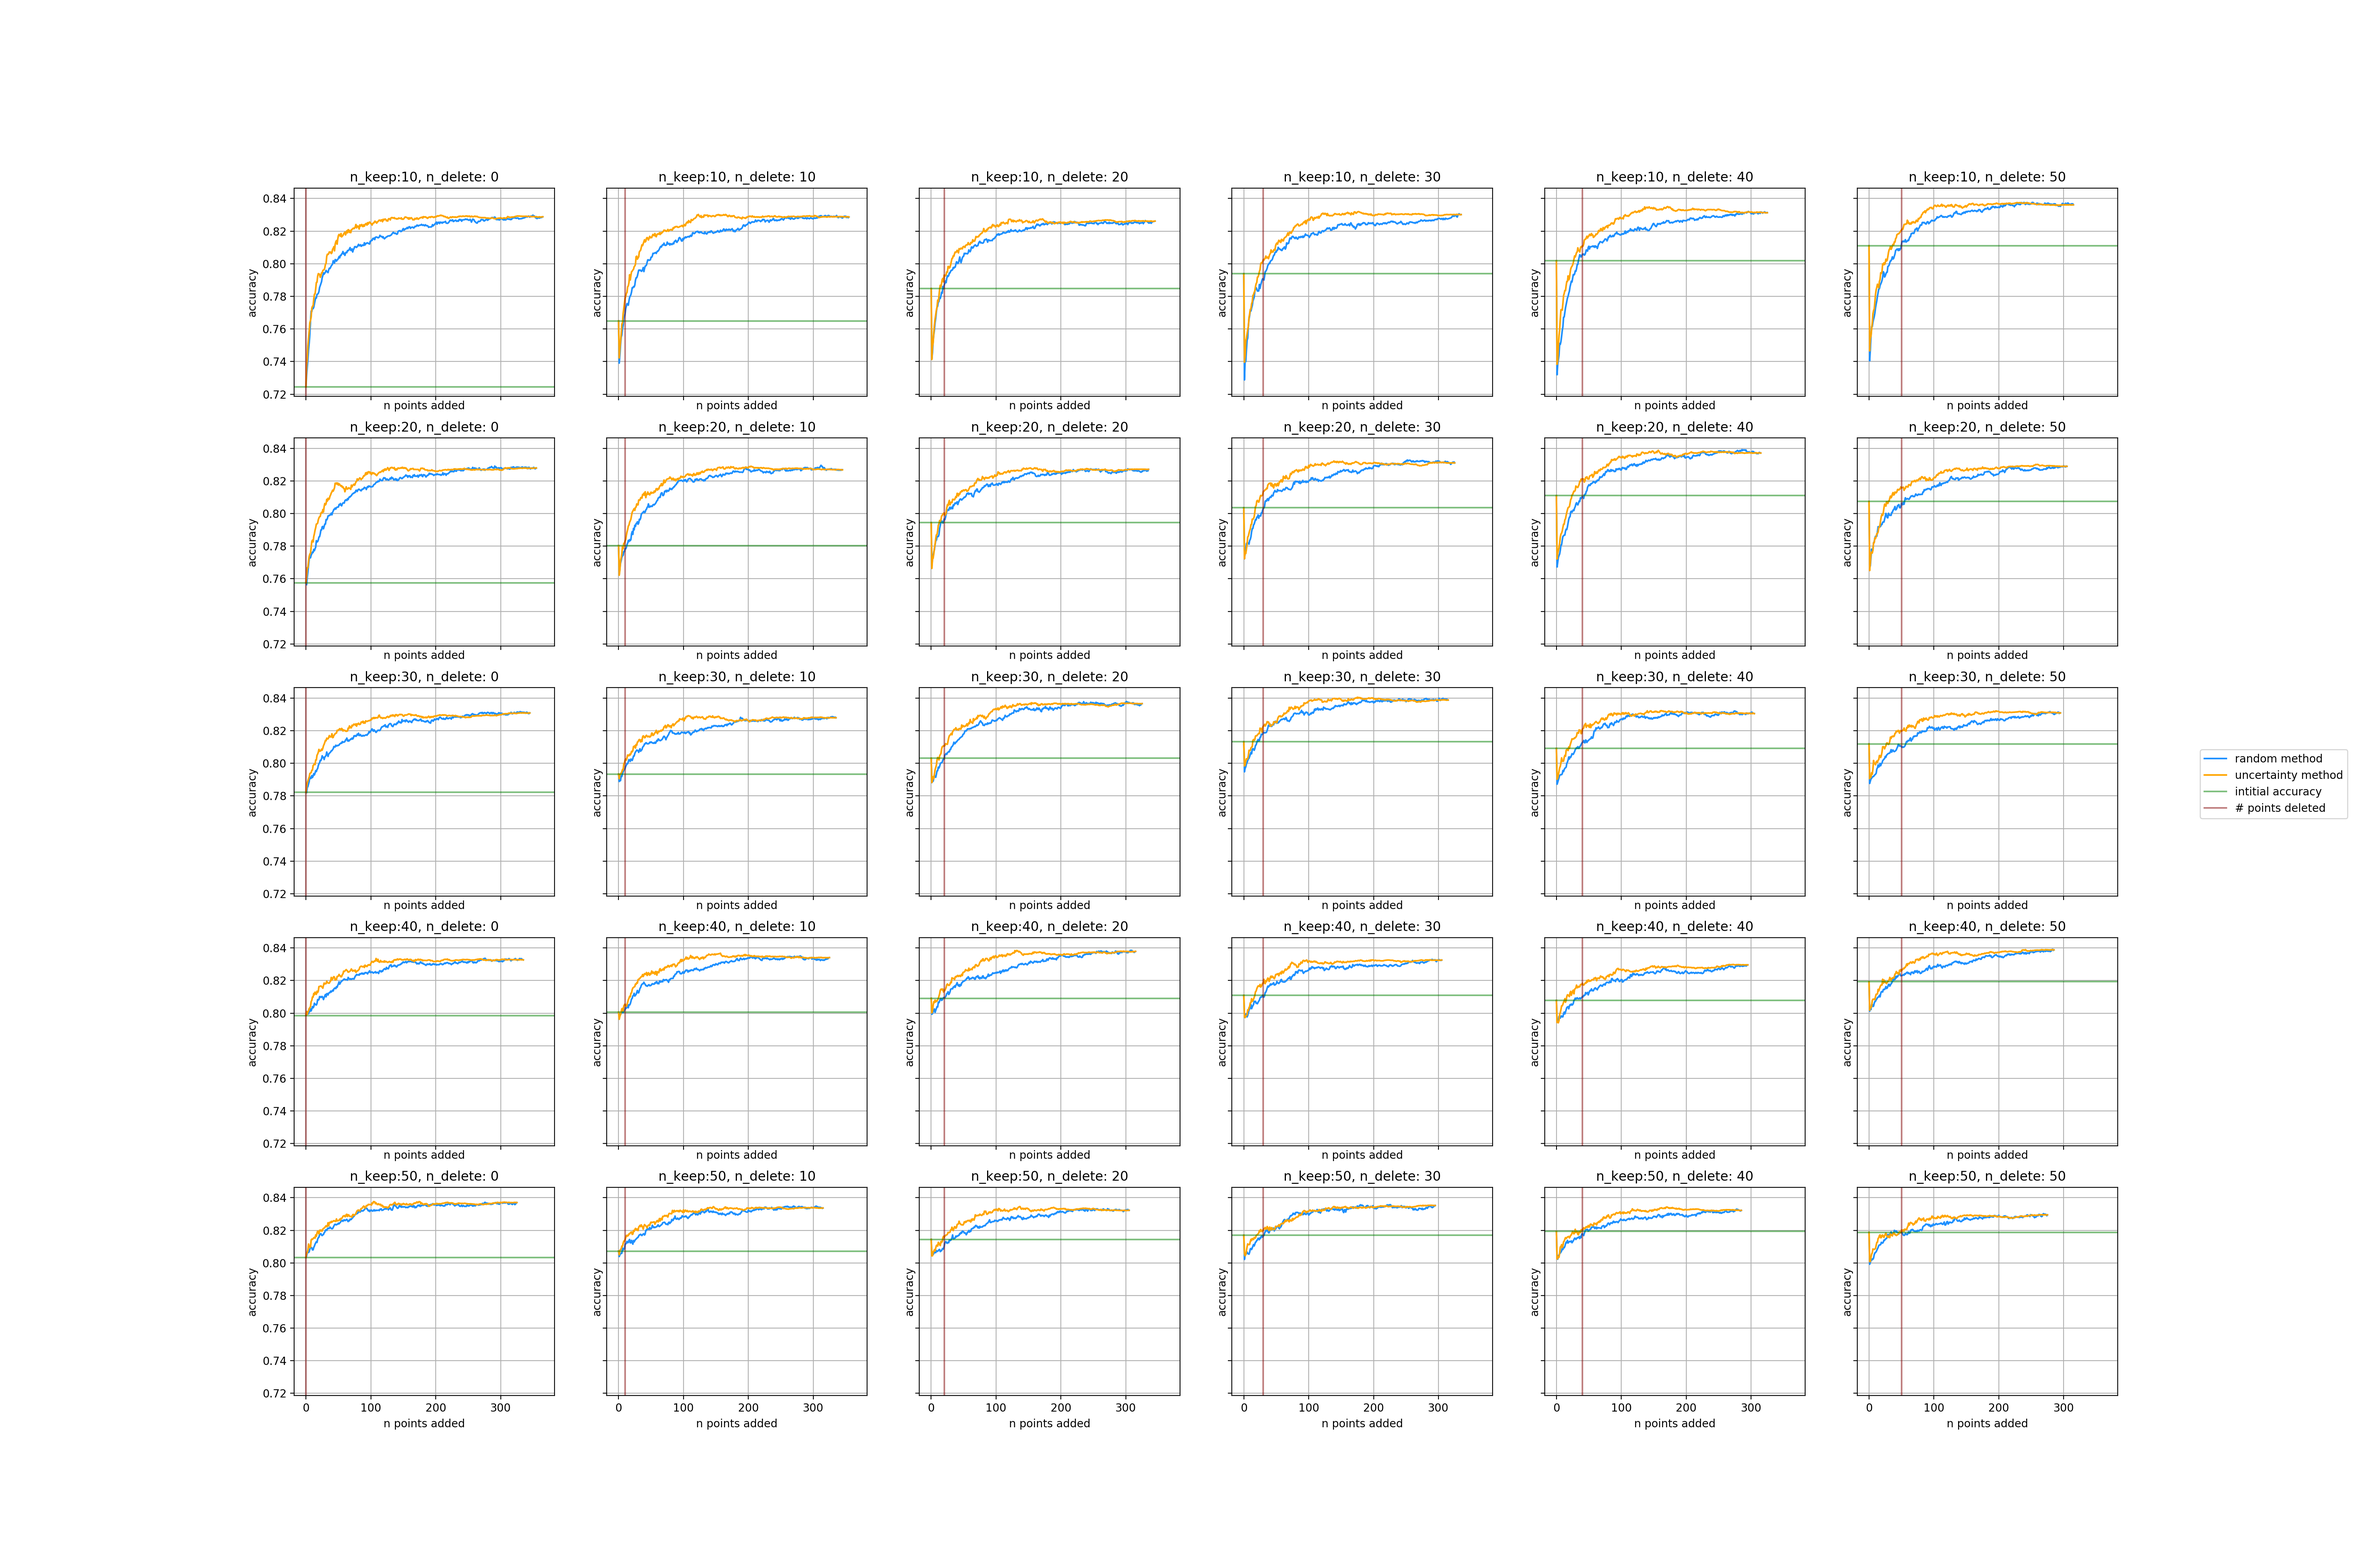
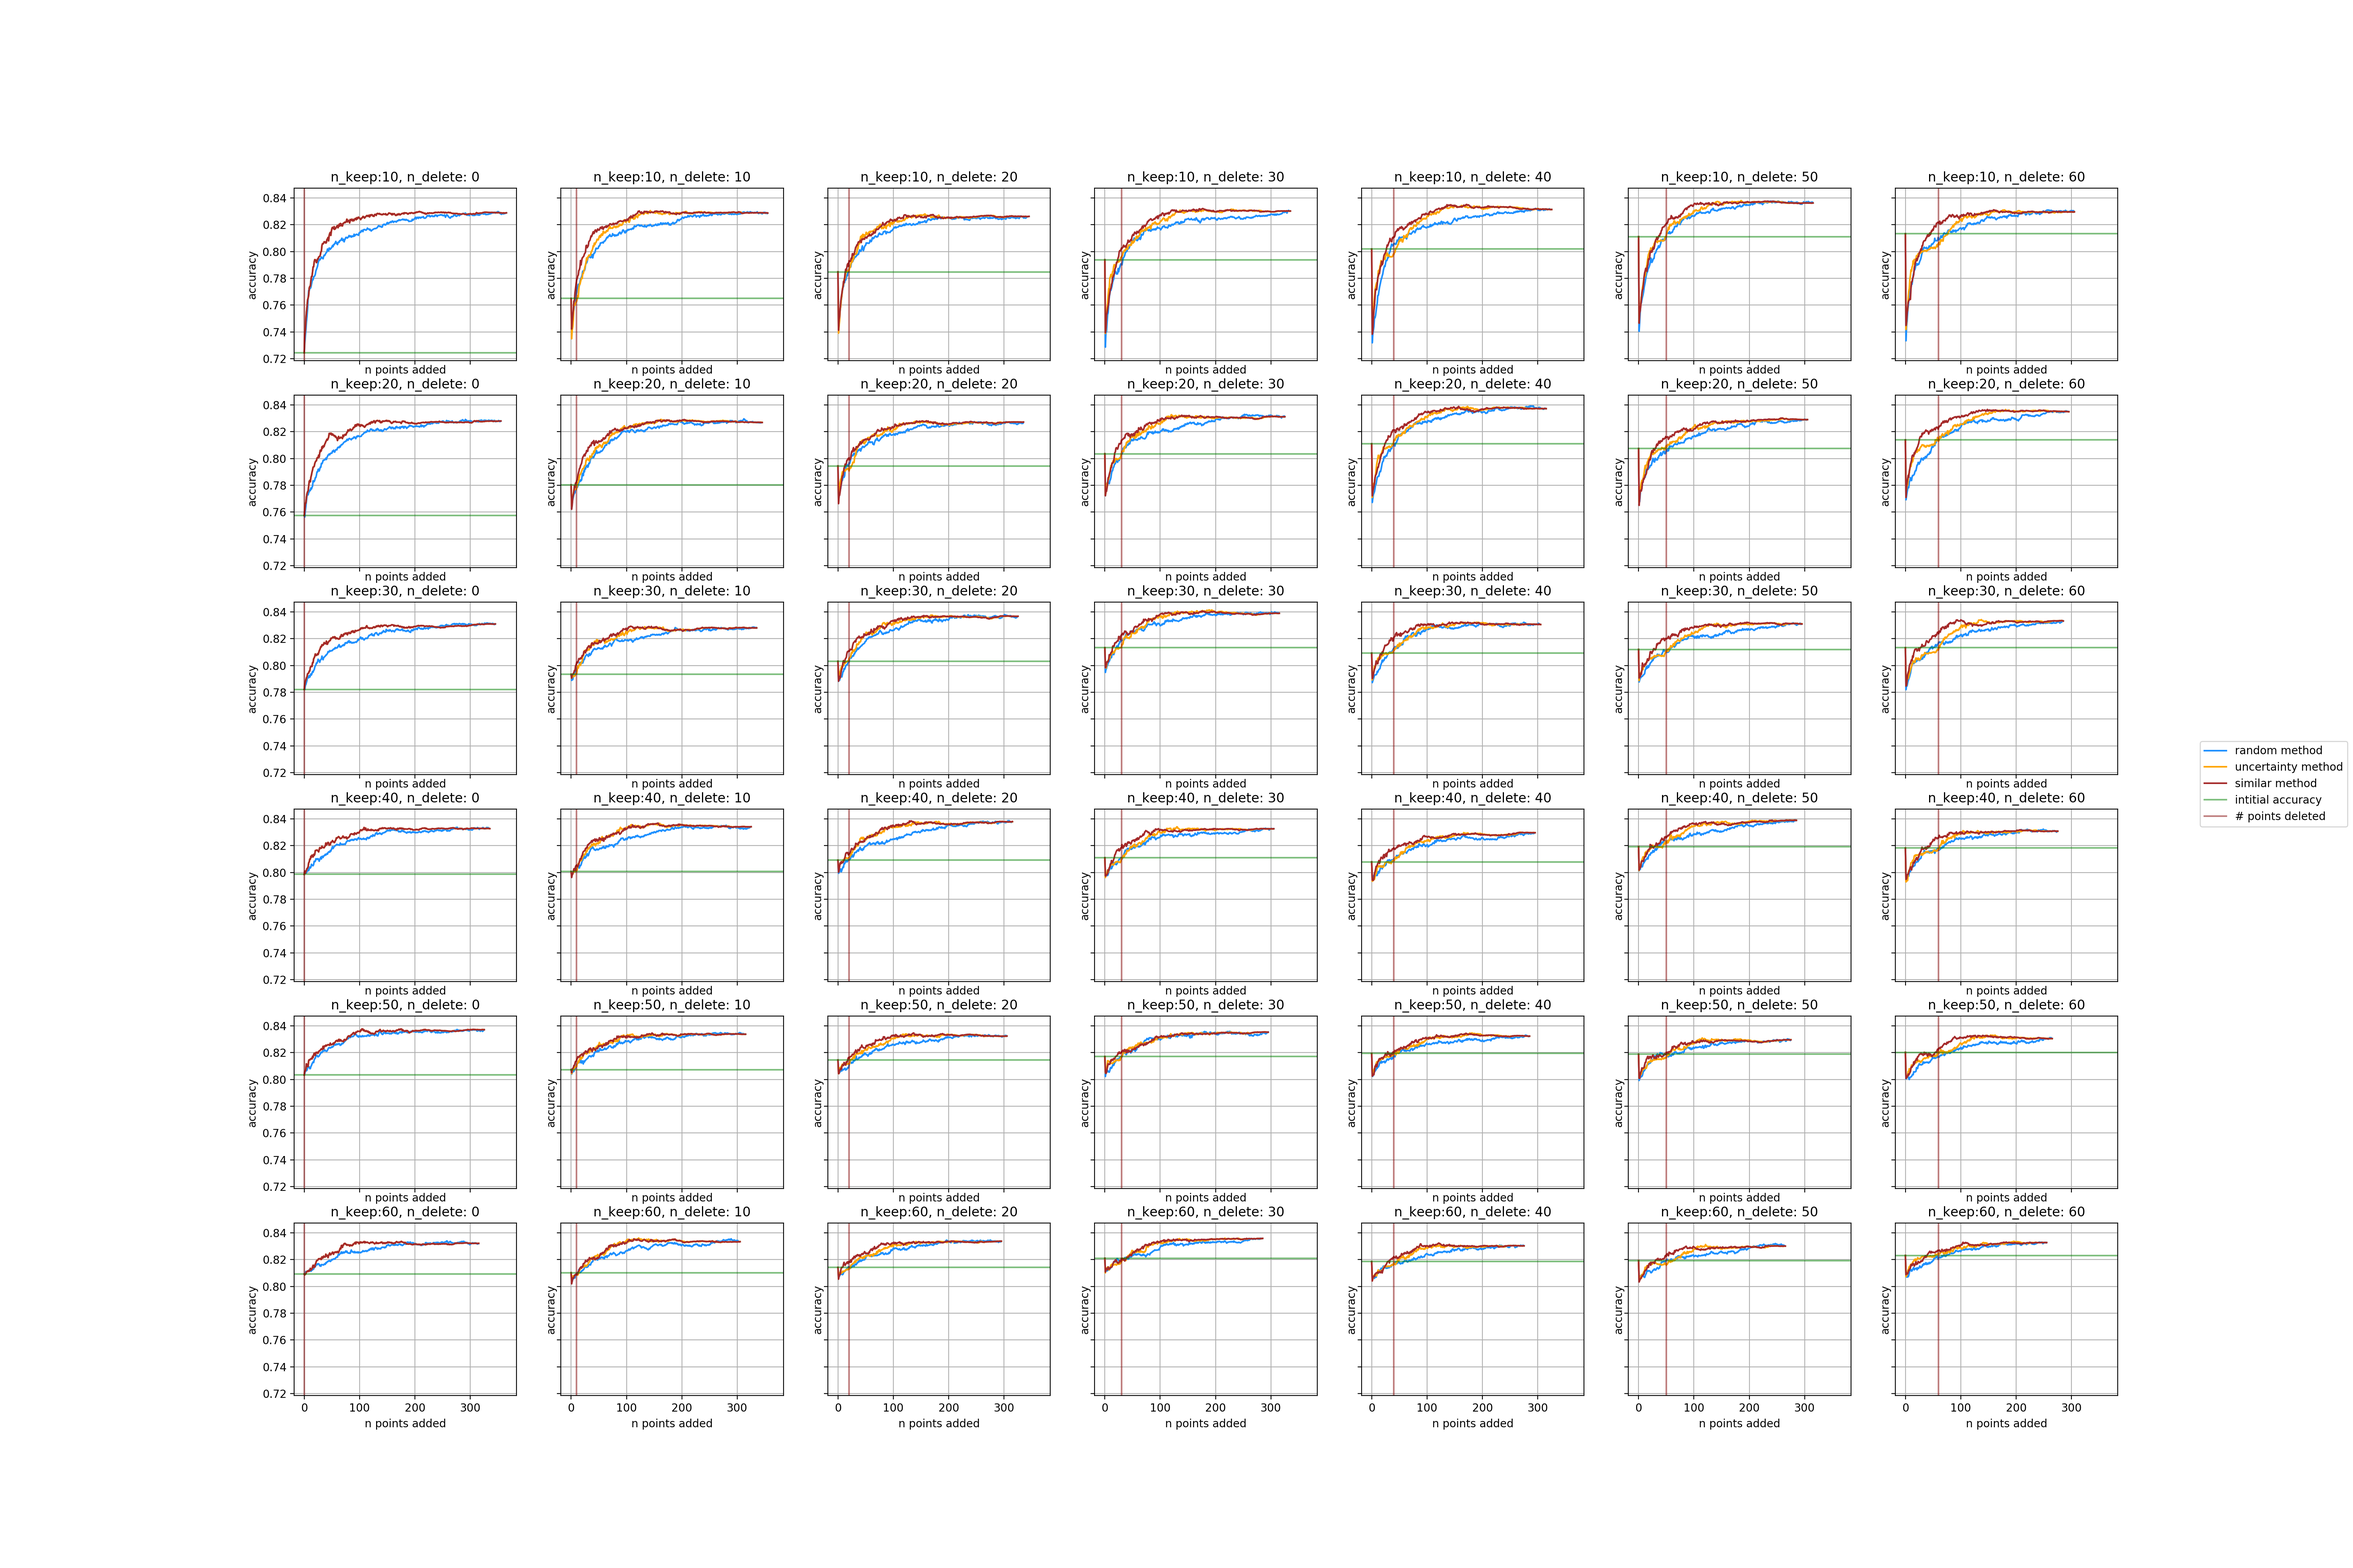
complete experiments to test nearest neighbour method

Changed region(s): [[0.0935, 0.0938, 0.9038, 0.9062], [0.935, 0.4688, 0.9973, 0.5312]]

diff --git a/experiment.py b/experiment.py
@@ -187,8 +187,8 @@ class Experiment():
     def initiate_similar_method(self):
         # if there are no more deleted points
         if self.data['deleted'].shape[0] == 0:
-            print('WARNING: Method is set to *similar*, but no data has been deleted')
-            print('--> defaulting back to method *uncertainty*')
+            #print('WARNING: Method is set to *similar*, but no data has been deleted')
+            #print('--> defaulting back to method *uncertainty*')
             return self.get_rows_to_add('uncertainty')
 
 

diff --git a/run_admission_experiments.py b/run_admission_experiments.py
@@ -26,7 +26,7 @@ import pandas as pd
 #import numpy as np
 #import matplotlib.pyplot as plt
 
-test = True
+test = False
 
 #heart, heart_with_dummies = get_heart_data('input/heart.csv')
 #data = heart_with_dummies

diff --git a/run_grade_experiments.py b/run_grade_experiments.py
@@ -26,7 +26,7 @@ import pandas as pd
 #import numpy as np
 #import matplotlib.pyplot as plt
 
-test = True
+test = False
 
 #heart, heart_with_dummies = get_heart_data('input/heart.csv')
 #data = heart_with_dummies
